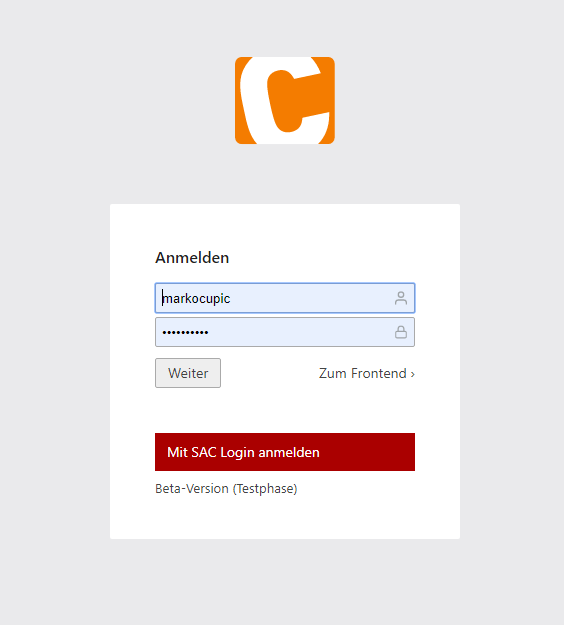
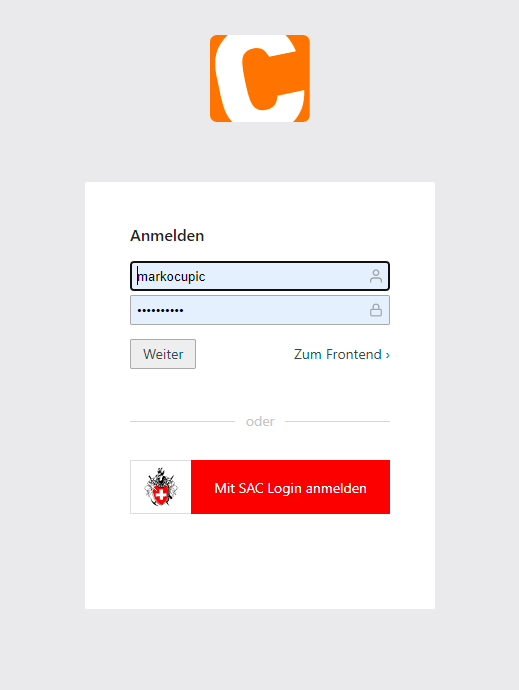
Added new screenshot for README

diff --git a/src/Resources/public/css/sac_login_button.css b/src/Resources/public/css/sac_login_button.css
@@ -1,0 +1,85 @@
+:root {
+    --sac-login-button-bg-color: #e30613;
+    --sac-login-button-bg-color-hover: #b1050f;
+
+}
+
+.sac-login-button-group {
+    width: 100% !important;
+    position: relative;
+    display: flex;
+    flex-wrap: wrap;
+    align-items: stretch;
+}
+
+.sac-login-button-group button:not(:disabled):not(.disabled):active {
+    color: #fff;
+    background-color: var(--sac-login-button-bg-color-hover);
+    background-image: none;
+    border-color: var(--sac-login-button-bg-color-hover);
+}
+
+.sac-login-button-group button:hover {
+    color: var(--sac-login-button-bg-color-hover);
+    background: #fff;
+    border-color: var(--sac-login-button-bg-color-hover);
+}
+
+.sac-login-button-group button:focus {
+    outline: none !important;
+}
+
+.sac-login-button-group button {
+    font-size: 0.875rem;
+    cursor: pointer;
+    flex-grow: 1;
+    display: inline-block;
+    font-weight: 400;
+    color: #fff;
+    text-align: center;
+    vertical-align: middle;
+    user-select: none;
+    background-color: var(--sac-login-button-bg-color);
+    border: 1px solid var(--sac-login-button-bg-color);
+    padding: 0.375rem;
+    margin: 0;
+    font-family: inherit;
+    font-size: .875rem;
+    line-height: 1.5;
+    border-radius: 0;
+    overflow: visible;
+    transition: color 0.15s ease-in-out, background-color 0.15s ease-in-out, border-color 0.15s ease-in-out, box-shadow 0.15s ease-in-out;
+}
+
+.sac-login-button-group-lg button {
+    font-size: 1rem;
+}
+
+.sac-login-button-group > .sac-login-button-prepend {
+    background-color: #ffffff;
+    border: 1px solid #dddddd;
+    margin-right: -1px;
+    display: flex;
+    align-items: center;
+    padding: 0.375rem .825rem;
+    margin-bottom: 0;
+    font-size: 1rem;
+    font-weight: 400;
+    line-height: 1.5;
+    text-align: center;
+    white-space: nowrap;
+}
+
+.sac-login-button-group.sac-login-button-group-lg > .sac-login-button-prepend {
+    padding-left: 13px;
+    padding-right: 13px;
+}
+
+.sac-login-button-group > .sac-login-button-prepend > .sac-login-button-prepend-icon {
+    height: 40px;
+    width: auto;
+}
+
+.sac-login-button-group.sac-login-button-group-lg > .sac-login-button-prepend > .sac-login-button-prepend-icon {
+    height: 50px;
+}

diff --git a/src/Resources/public/css/backend.css b/src/Resources/public/css/backend.css
@@ -49,34 +49,3 @@
 #mod_swiss_alpine_club_oidc_backend_login .login-button-separator-container .login-button-separator::after {
     margin-left: 0.75em;
 }
-
-#mod_swiss_alpine_club_oidc_backend_login .sac_login_button {
-    padding: 12px 12px 12px 55px;
-    background-image: url('../../../bundles/markocupicswissalpineclubcontaologinclient/img/logo_sac_small.png');
-    background-repeat: no-repeat;
-    background-size: 30px;
-    background-position: 10px;
-    background-color: #fff !important;
-    border: 1px solid red;
-    font-size: 1rem !important;
-    display: inline-block;
-    color: #ff0000;
-    text-align: left;
-    vertical-align: middle;
-    text user-select: none;
-    background-color: transparent;
-    border: 1px solid #ff0000;
-    line-height: 1.5;
-    border-radius: 0;
-    transition: color 0.15s ease-in-out, background-color 0.15s ease-in-out, border-color 0.5s ease-in-out, box-shadow 0.15s ease-in-out;
-}
-
-#mod_swiss_alpine_club_oidc_backend_login .sac_login_button_block {
-    display: block;
-    width: 100%;
-}
-
-#mod_swiss_alpine_club_oidc_backend_login .sac_login_button:hover {
-    border-color: #000 !important;
-    color: #000 !important;
-}
